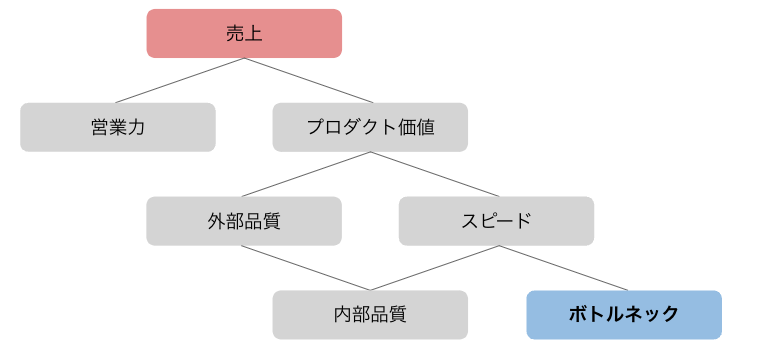
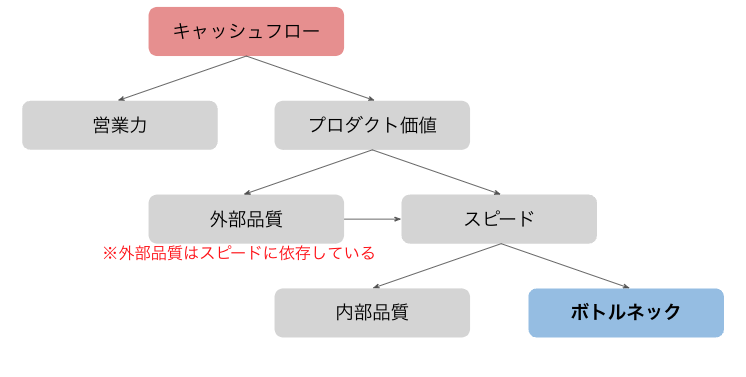
[the-goal] 校正

diff --git a/articles/the-goal-of-engineer.md b/articles/the-goal-of-engineer.md
@@ -30,33 +30,29 @@ published: false
 
 ユーザーが価値を感じるには上記品質のどれかを満たすのではなく、全てにおいてバランス良く品質を提供する必要があります。
 
-狩野モデルの分類はユーザーにとっての品質であり、いわゆる**外部品質**の分類です。一方で運営側である会社や開発チームにとっての品質、例えば保守性などの品質は**内部品質**と呼ばれます。外部品質は内部品質によって支えられています。内部品質はスピードのトレードオフとして交渉されることがありますが、それは成り立たずただ崩壊へ近づくことはt-wadaさんの[質とスピード](https://speakerdeck.com/twada/quality-and-speed-2022-spring-edition)を読むとよくわかります。
-
-https://speakerdeck.com/twada/quality-and-speed-2022-spring-edition?slide=28
-
-### まとめ
-
-ここまでが最初の大事なポイントなので、一旦まとめてみましょう。
-
-ユーザーにとっての価値とは外部品質として分類することができ、これらがバランス良く高い状態にあることが望ましい状態です。そしてこの外部品質は、保守性などの内部品質によって支えられています。
+狩野モデルの分類はユーザーにとっての品質であり、いわゆる**外部品質**の分類です。一方で運営側である会社や開発チームにとっての品質、例えば保守性などの品質は**内部品質**と呼ばれます。詳しくは後述しますが、外部品質は内部品質によって支えられています。
 
 ## エンジニアリングのKPI
 
-さて、お金が儲かることが最大目標とはいいつつ、そのために開発チームが営業も頑張れるようになればいいのかというと、もちろんそうではありません。開発チームが会社の目標のためにやれることは**プロダクトを高い品質で迅速に提供する**ことです。つまりKPIとしては**外部品質**と**スピード**の2つです。
+さて、お金が儲かることが最大目標とはいいつつ、そのために開発チームが営業活動も頑張れるようになればいいのかというと、もちろんそうではありません。開発チームが会社の目標のためにやれることは**プロダクトを高い品質で迅速に提供する**ことです。つまりKPIとしては**外部品質**と**スピード**の2つです。この2つは単なる兄弟関係ではなく、外部品質はスピードにも依存します。開発スピードが早いことはそれだけで競合優位にもなり得ますし、外部品質の向上にも影響する重要な指標です。
 
-プロダクトの外部品質を高く迅速に提供するには、どうすればいいでしょうか？ここでよくある勘違いが、内部品質をトレードオフすることです。具体的には、下記などが考えられます。
+では開発スピードを早くするには、どうすればいいでしょうか？ここでよくある勘違いが、内部品質をトレードオフすることです。具体的には、下記などが考えられます。
 
 - ユニットテストの実装工数を減らそう
 - リファクタした方がよさそうだけど後にしよう
 - レビュー工数を減らすためにレビュアーを減らそう
 
-これらで内部品質をトレードオフすると結果、スピードが低下します（再掲:[質とスピード](https://speakerdeck.com/twada/quality-and-speed-2022-spring-edition)）。内部品質はトレードオフするのではなく、高く維持することでスピードを得ることができるのです。また、内部品質が低いとバグ発生率が上がり、当たり前品質が低下する可能性が高いです。つまり、外部品質とスピードを支える重要なマイクロKPIが、**内部品質**になります。
+これらで内部品質をトレードオフすると結果、スピードが低下します。内部品質はトレードオフするのではなく、高く維持することでスピードを得ることができるのです。この辺はt-wadaさんの[質とスピード](https://speakerdeck.com/twada/quality-and-speed-2022-spring-edition)を読むとよくわかります。
 
-外部品質とスピードを向上させるには、内部品質の向上以外にマイクロKPIはないのでしょうか？実はスピードは、**ボトルネック**に大きく左右されます。このボトルネックに注目し最適化を目指すのが**制約理論**です。
+https://speakerdeck.com/twada/quality-and-speed-2022-spring-edition?slide=28
+
+スピードを向上させるには、内部品質の向上以外にマイクロKPIはないのでしょうか？内部品質が一定の場合、開発スピードは**ボトルネック**に大きく左右されます。
 
 ![](/images/the-goal-of-engineer/kpi.png)
 
 [//]: # (https://docs.google.com/presentation/d/1anrO4fHKVerzglGaH276Buh-rl99xkCy4yt6jUgh2No/edit#slide=id.g1bbe06e13b6_0_0)
+
+このボトルネックに注目し最適化を目指すのが**制約理論**です。
 
 ## 制約理論
 
@@ -98,15 +94,17 @@ https://speakerdeck.com/twada/quality-and-speed-2022-spring-edition?slide=28
 
 要件定義後の実装フェーズにおいてよくあるボトルネックがレビューです。複数人の開発チームでリーダーや古参メンバーが必須レビュアーを担っていることはよくあるケースです。レビューがボトルネックである場合、どういった最適化が可能なのでしょう？
 
-ここで注目したいのが、レビューの優先順位です。開発メンバー全員が優先度が高いタスクだけを持ってるとは限りません。時期によって優先度が高いタスク自体が少なかったり、古参なメンバーが優先度の高いタスクを持って他メンバーは優先度が中〜低のものを担当してることはよくあることでしょう。最適化として考えられるのは、この優先度の低いタスクを一旦停止し、優先度の高いタスクに人員を割り当てるということです。スクラムなどでは**WIP制限**などと呼ばれます。メンバー1人1人に実装案件を渡し、並列に実装を進めることは効率的に見えて、実はボトルネックに負荷を強めているだけな可能性があるのです。
+ここで注目したいのが、チームで持っているタスクの優先順位です。開発メンバー全員が優先度が高いタスクだけを持ってるとは限りません。時期によって優先度が高いタスク自体が少なかったり、古参なメンバーが優先度の高いタスクを持って他メンバーは優先度が中〜低のものを担当してることはよくあることでしょう。最適化として考えられるのは、この優先度の低いタスクを一旦停止し、優先度の高いタスクに人員を割り当てるということです。アジャイル開発では**WIP制限**と呼ばれています。メンバー1人1人に実装案件を渡し、並列に実装を進めることは効率的に見えて、実はボトルネックに負荷を強めているだけな可能性があるのです。
 
-これは少々勇気のいる決断になることでしょう。直感的には手を埋めることが最も効率的に思えるからです。しかし、これも[THE GOAL](https://promo.diamond.jp/books/the-goal/)で否定されている内容の近いものです。
+並行タスクを減らすのは始め、勇気のいる決断になることでしょう。多くの人が直感的に並行タスクが多いことこそが最も効率的と考えるからです。しかし、これも[THE GOAL](https://promo.diamond.jp/books/the-goal/)で否定されている内容の近いものです。
 
 > *「ゴロー、面白いことを教えてあげよう。従業員が手を休めることなく常に作業している工場は非常に非効率なんだ。」*
 
 これは示唆に富んでおり、**人の手を埋めること（≒リソース効率）が目標に対し必ずしも効率的とは限らない**ということです。リソース効率とフロー効率を知ってると、よりしっくり来るかもしれません。
 
 https://speakerdeck.com/osawatanabe/productivity-and-flow-efficiency-and-resouce-efficiency?slide=16
+
+他に[リーン開発の本質](https://bookplus.nikkei.com/atcl/catalog/08/P83500/)でも、並行タスクが多いことはタスク切り替えの無駄として紹介されています。もしレビューがボトルネックで悩んでいるなら勇気を出して、優先度の低いタスクを止めてみましょう。
 
 この例のポイントです。
 
@@ -125,23 +123,27 @@ https://speakerdeck.com/osawatanabe/productivity-and-flow-efficiency-and-resouce
 
 ## ボトルネックは悪なのか
 
-ここまで例でボトルネックの探し方と最適化を考えてきましたが、実際に開発現場でボトルネックを探す時には「ボトルネック」という単語のイメージに注意する必要があります。ボトルネックという単語はネガティブなイメージを持たれやすい単語ですが、制約理論においてボトルネックとは、駆逐すべき対象ではなくただの現実です。**ボトルネックは悪ではありません**。ボトルネックに対する最適化案のアンチパターンとして、無理にボトルネックを解消しようとすることが挙げられます。
+ここまで例でボトルネックの探し方と最適化を考えてきましたが、実際に開発現場でボトルネックを探す時には大きく2つの点に注意する必要があります。
 
-例えば例2のレビューの例で言えば、「レビューがボトルネックだからスキップしてしまおう」「レビュアーを減らそう」「レビュアーとしてアサインできる人を増やそう」といったものです。これらは元々レビューで担っていた内部品質を悪化させる可能性があり、結果目標から遠ざかる可能性があります。
+1つは「ボトルネック」という単語のイメージです。ボトルネックという単語はネガティブなイメージを持たれやすい単語であり、「あなたの工程がボトルネックですね」と言われると、気分を害される場合があります。制約理論においてボトルネックとは駆逐すべき対象ではなくただの現実であり、**悪ではありません**。ボトルネックの定義を議論の前に揃えてから会話することをお勧めします。
 
-ボトルネックは解消するのではなく、**ボトルネックに合わせて全体を最適化する**ことこそが重要です。
+もう1つの注意点としては、ボトルネックに対する最適化案のアンチパターンとして、無理にボトルネックを解消しようとすることが挙げられます。例えば前述のレビューの例で言えば、以下はアンチパターンと考えられます。
+
+- レビューがボトルネックだからスキップしてしまおう
+- レビュアーを減らそう
+- レビュアーとしてアサインできる人を増やそう
+
+これらは元々レビューで担っていた内部品質を悪化させる可能性があり、結果目標から遠ざかる可能性があります。ボトルネックは解消するのではなく、**ボトルネックに合わせて全体を最適化する**ことこそが重要です。
 
 ## まとめ
 
 最後にまとめです。
 
 - 会社の目標は「ユーザーに価値を提供し、対価としてお金を儲けること」
-- 開発チームの追うべきKPIは「外部品質」と「スピード」
-- 「外部品質」と「スピード」は「内部品質」によって支えられている
-- 開発フローをボトルネックに合わせて最適化することで、スピードが改善する
+- 開発チームの追うべきKPIは**外部品質**と**スピード**
+- 外部品質はスピードに依存し、スピードは**内部品質**と**ボトルネック**に依存する
+- 内部品質を高く保ち、かつボトルネックに合わせて最適化する（**制約理論**）ことで、スピードが改善する
 
-## メモ
+本稿が制約理論の概要理解に繋がれば幸いです。興味を持った方は、コミック版が非常にわかりやすく読みやすいのでぜひ手にとっていただくことをお勧めします。
 
-- 外部品質はスピードに依存してる方がわかりやすいかも
-  - 外部品質は開発チームのアウトプット量≒スピードに左右される
-  - スピードは何に左右されるのか -> ボトルネックと内部品質
+https://www.diamond.co.jp/book/9784478039397.html
